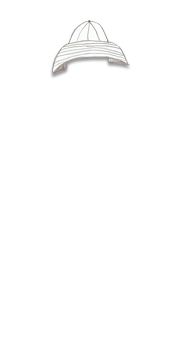
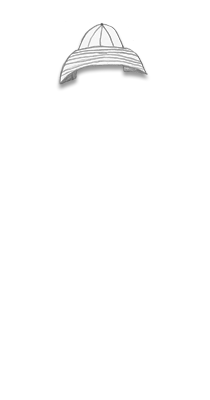
bigger and slightly darker Burt and clothes

Changed region(s): [[0.2717, 0.0571, 0.7065, 0.2286]]

diff --git a/public/stylesheets/figleaf.css b/public/stylesheets/figleaf.css
@@ -287,8 +287,8 @@ a:hover
 #character
 {
   position: absolute;
-  top: 76px;
-  left: 344px;
+  top: 56px;
+  left: 324px;
 }
 
 #character img
